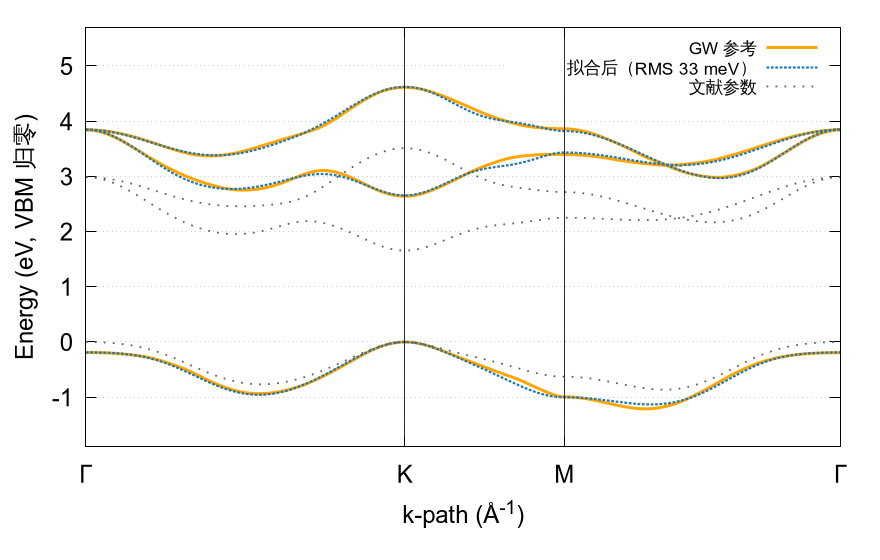
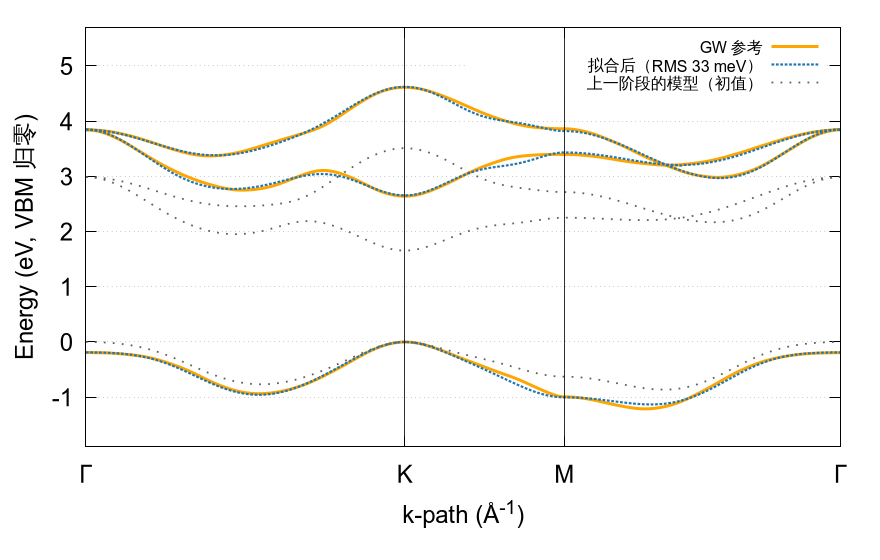
图 2 的灰线改称"上一阶段的模型（初值）"，并修正 §5.2 对初值的错误说法
用户指出：灰线不是"文献参考"，它是上一阶段那个三带模型的能带；这个课题只是拿
之前的模型当起点去拟合 GW 能带，不该按"文献参考"来标。图例与图注改成
"上一阶段的模型（初值）"。

顺带核出一处真错误：§5.2 原来写"初值取上一篇按 HSE06 拟合得到的那一组"，
实际 opt_main 的初值来自 params.h 的 PARAM_SET=1，也就是上一阶段用的那组
文献参数（Liu et al. PRB 88, 085433），不是博客里拟合 HSE06 的那组
（那组 e1=1.126，而 opt_report 里的初值是 -0.304，加回 -0.987 的平移正好是 0.683）。
已改为"上一阶段用的那组文献参数"并补上引用。

Changed region(s): [[0.6443, 0.0607, 0.9205, 0.1821]]

diff --git a/doc/theory.tex b/doc/theory.tex
@@ -290,7 +290,7 @@ f_{\mathrm{loss}}(\mathbf p)=\sum_{n\in\{\mathrm{VB},\mathrm{CB1},\mathrm{CB2}\}
 
 \subsection{初值与优化}
 
-初值取上一篇按 HSE06 拟合得到的那一组，先做一次最优刚性平移。
+初值取上一阶段用的那组文献参数\cite{liu2013}，先做一次最优刚性平移。
 把 $\eps_1$ 与 $\eps_2$ 同时加上常数 $\Delta$ 等价于整条能带上移 $\Delta$，
 因此 $\Delta$ 有闭式解
 \begin{equation}
@@ -345,7 +345,8 @@ GW 的直接带隙为 2.6416~eV，相差 13~meV。
 \centering
 \includegraphics[width=0.82\textwidth]{fig_fit.png}
 \caption{GW 参考能带（橙色）与拟合后的三能带模型（蓝色虚线）。
-灰色点线是文献参数在同样路径上的结果。三条曲线都按各自的价带顶归零。}
+灰色点线是上一阶段那个模型（本次拟合的初值）在同样路径上的结果。
+三条曲线都按各自的价带顶归零。}
 \label{fig:fit}
 \end{figure}
 
